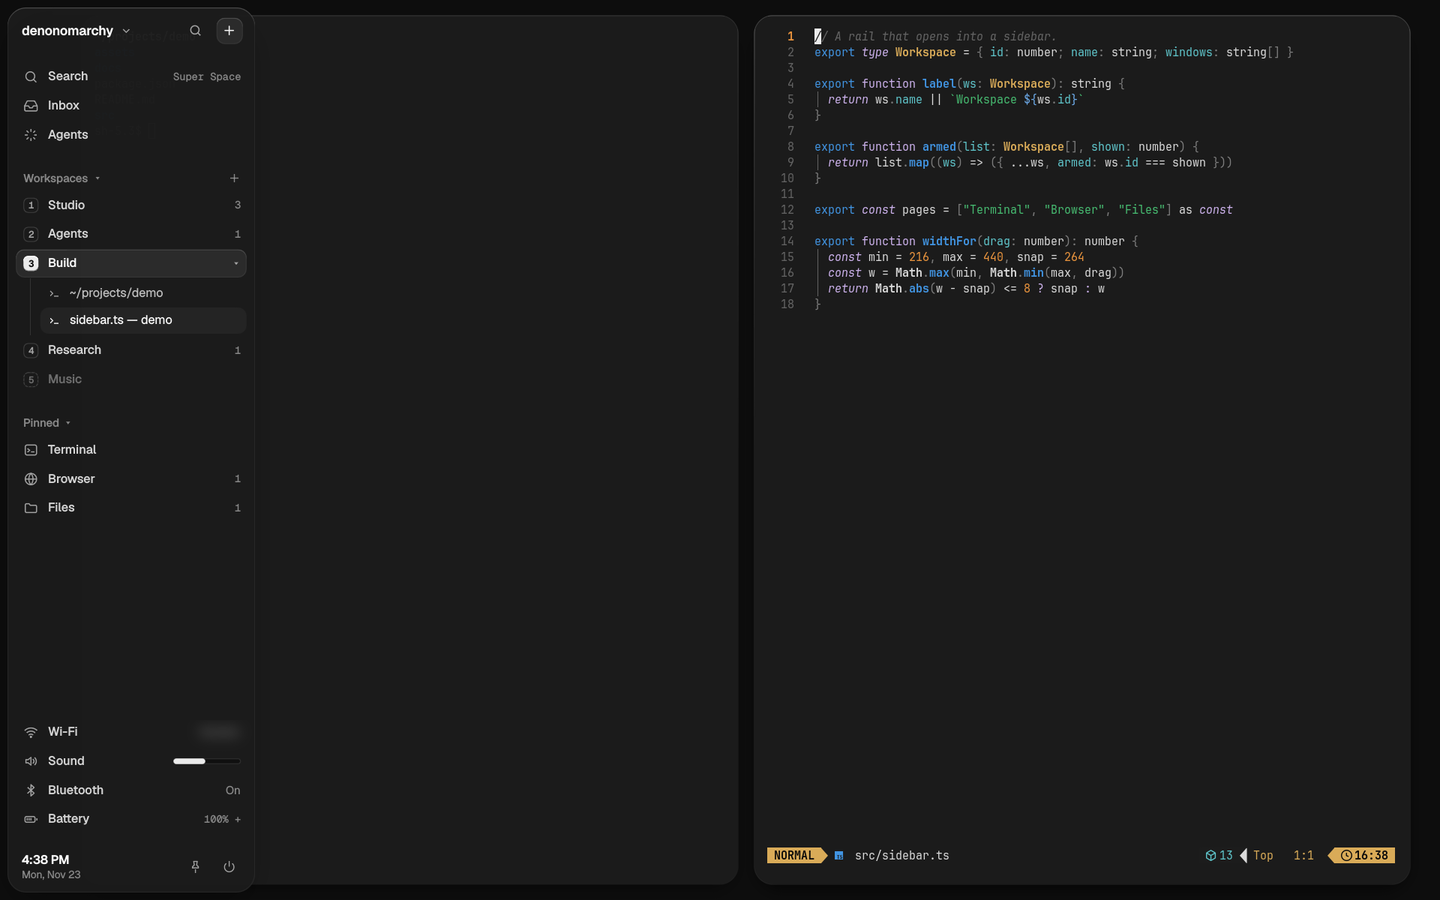
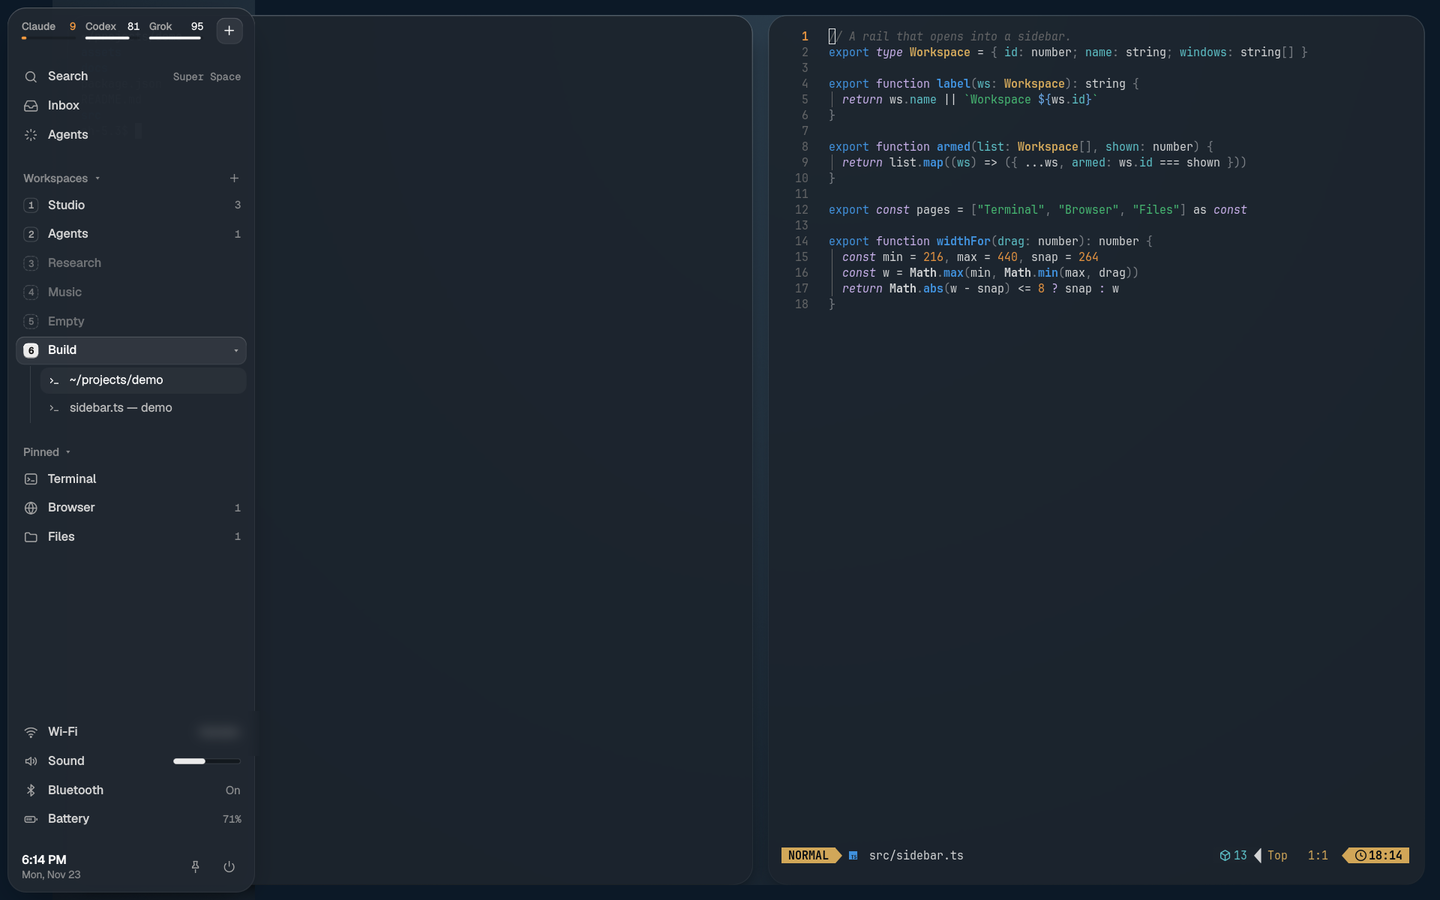
README: the usage strip, the frame, tone-following and new screenshots
The header now shows what is left on each AI subscription, not the hostname.
The frame and its IPC, and following the theme's tone, are described. The
screenshots are retaken on Solid Glass Slate with the frame on.

diff --git a/README.md b/README.md
@@ -4,7 +4,8 @@ A bar for [Omarchy](https://omarchy.org): a 56px rail on the left edge of the sc
 into a sidebar of your workspaces, their windows, pinned app pages and system rows. It is styled
 after DeepLethe's [Solid Glass](https://github.com/deeplethe/solid-glass): neutral grey panes, a
 hairline and a line of light at each pane's edge, one clear state for hovered and chosen, and one
-solid ink for what asks to be pressed. Status dots are the only colour.
+solid ink for what asks to be pressed. Status dots and a running-low usage bar are the only
+colour.
 
 ![Sidecar pinned beside the windows](screenshots/pinned.png)
 
@@ -38,10 +39,20 @@ Needs Omarchy 4.5 or later (Hyprland with the Lua config).
   rail or the sidebar. Sidecar keeps the panel widgets from your `bar.layout` loaded but never
   draws them; if your layout has none of a kind, it loads the stock `omarchy.*` one.
 - **Inbox** puts the last few notifications back on screen (the stock notification history).
-- **Footer:** time, date, pin and power (Omarchy's system menu). The header shows the hostname
-  (click for the Omarchy menu), search and `+` (the app grid).
-- Follows your Omarchy theme's light or dark mode and the language set under Setup > Language.
-  Uses Geist when it is installed, else the shell's font.
+- **Footer:** time, date, pin and power (Omarchy's system menu).
+- **Header:** how much is left on each AI subscription (Claude, Codex, Grok, up to three), as a
+  percentage and a thin bar, with `+` (the app grid) beside it. The numbers come from the
+  records Omarchy's own Agents panel keeps (`~/.local/state/omarchy/agents/usage/`), read every
+  two minutes; each agent shows its fullest limit window, since that is the one that stops you.
+  Click it for the Agents panel. With no records the strip is simply empty.
+- **Frame:** the sidebar's page colour carries on round the top, right and bottom, filling
+  Hyprland's outer gap, so the rail or sidebar and the frame read as one shell and each window's
+  own edge is the only outline. It reserves no space and never covers a window; its corners
+  follow your window rounding. Turn it off with `omarchy-shell sidecar frame off`.
+- **Theme:** follows your Omarchy theme's light or dark mode, and its tone: the grey panes lean
+  a little toward the theme's hue (never more than a tint), and a dark theme with a lifted page
+  lifts the sidebar's page with it. Follows the language set under Setup > Language. Uses Geist
+  when it is installed, else the shell's font.
 
 Sidecar does not draw the tray, indicators, keyboard layout, update notice, weather or clock
 card; their widgets in `bar.layout` are simply not loaded while Sidecar is the bar.
@@ -65,7 +76,7 @@ omarchy restart shell
 omarchy plugin remove io.github.denonmaryland.sidecar    # remove the files
 ```
 
-Sidecar keeps its pin, width and workspace names in `~/.config/omarchy/sidecar.json`; delete it
+Sidecar keeps its pin, width, frame and workspace names in `~/.config/omarchy/sidecar.json`; delete it
 too if you want nothing left behind. It never writes to your Hyprland config.
 
 ## IPC
@@ -82,6 +93,7 @@ omarchy-shell sidecar page terminal       # terminal | browser | files
 omarchy-shell sidecar another terminal    # one more window on that page
 omarchy-shell sidecar sound               # [{ app, workspace, address, muted }]
 omarchy-shell sidecar muteWindow 0x5f...  # mute or unmute one window's streams
+omarchy-shell sidecar frame off           # on | off | toggle; prints the new state
 ```
 
 `expand` opens the sidebar until Escape, another call, or the pointer has come in and left.
@@ -89,7 +101,8 @@ Bind `omarchy-shell sidecar toggle` to a key in `~/.config/hypr/bindings.lua` if
 
 ## Optional Hyprland snippet
 
-Sidecar works with Omarchy's default gaps. The design was drawn with one 8px gap between windows,
+Sidecar works with Omarchy's default gaps; the frame is as thick as your outer gap. The design was
+drawn with one 8px gap between windows,
 the rail and the screen edges, and the floating card frosted. To get that, add this to a file of
 your own under `~/.config/hypr/` (for example `looknfeel.lua`), then check `hyprctl configerrors`:
 
